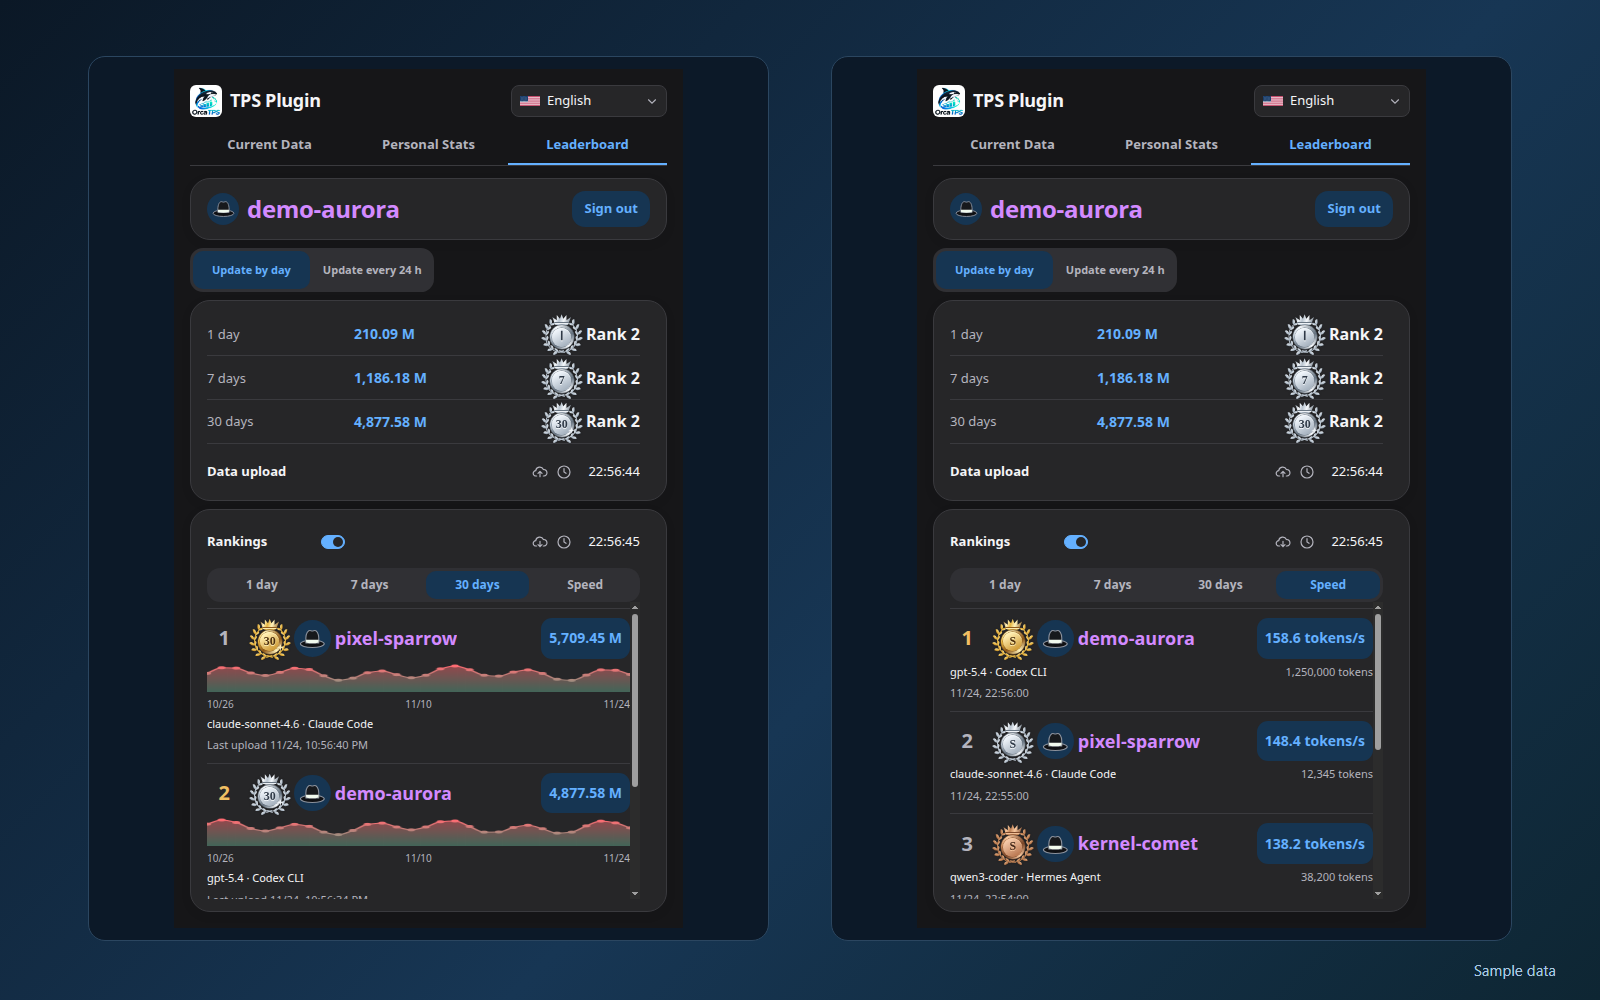
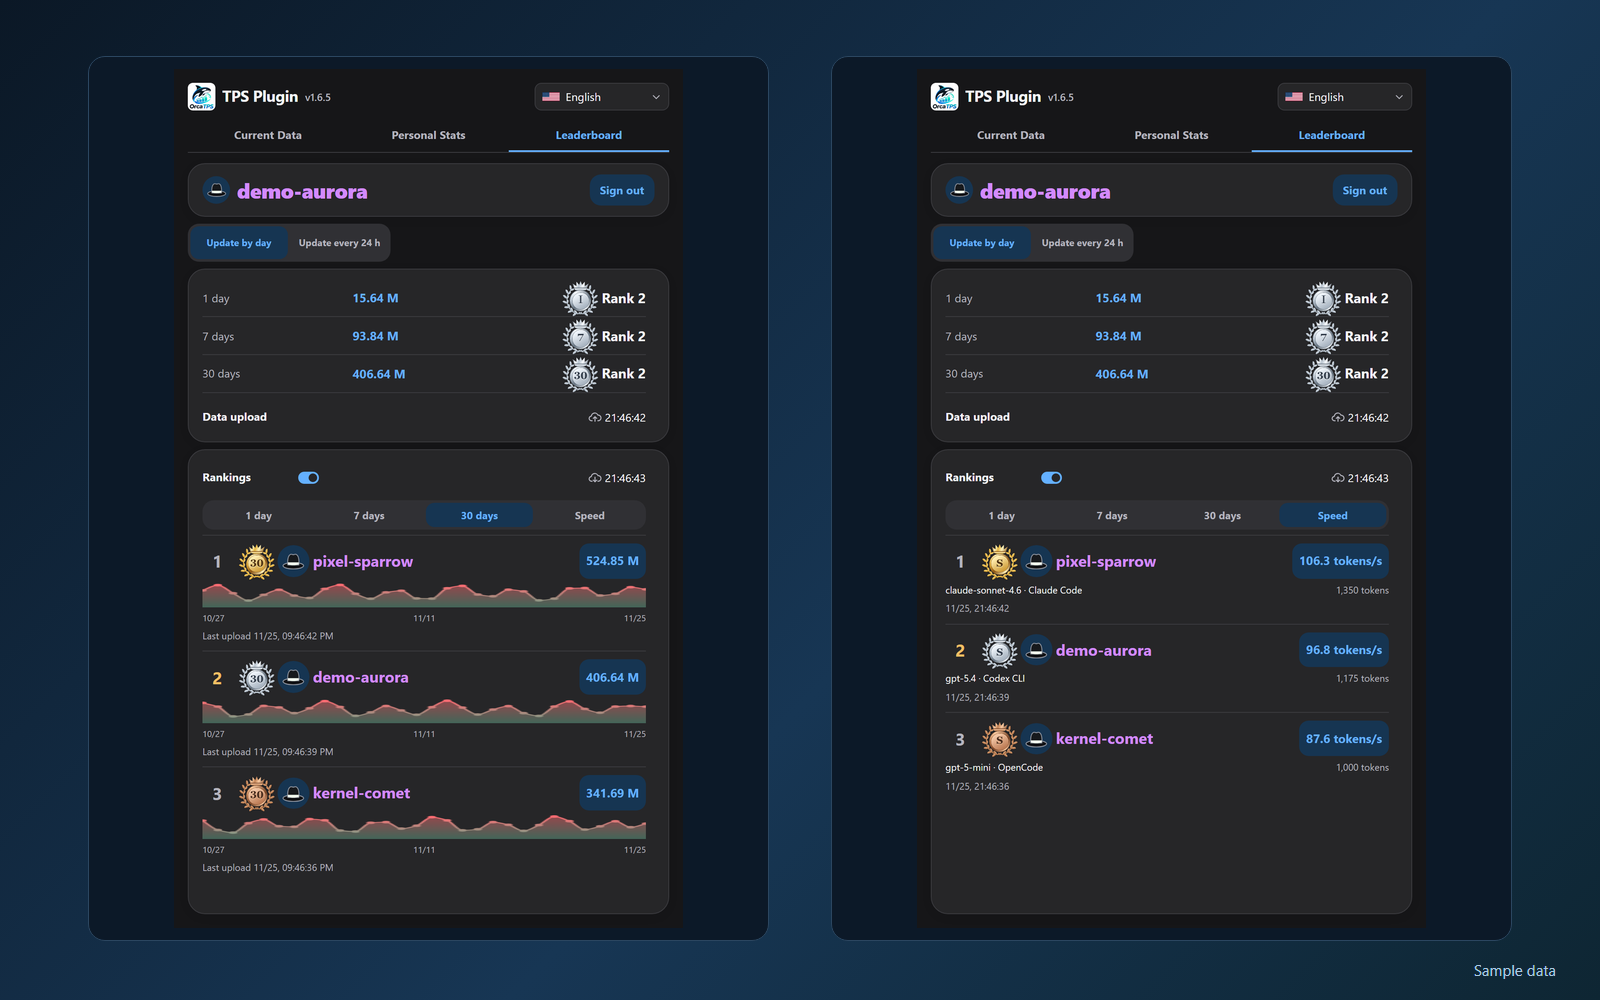
Prepare TPS Plugin 1.6.5 release

diff --git a/CHANGELOG.md b/CHANGELOG.md
@@ -4,20 +4,26 @@ All notable changes to this project will be documented in this file.
 
 ## [Unreleased]
 
-### Fixed
-- **Leaderboard sync no longer waits for every file**: Today's usage now uploads whatever has been read so far, and later syncs replace it as more files are read. Heavy users with a large session file that was still being written (over 64 MB) previously got "usage not ready" on almost every sync. The one-time history upload for past days still waits for complete data, because the server keeps the first total it receives for each past day.
-- **Leaderboard avatars recover after a failed download**: An avatar that is still the default icon is fetched again when its leaderboard row changes after a sync, and the account avatar is retried too. A loaded avatar updates every place the same user appears and is not downloaded again. Failed downloads now wait 10 seconds (one sync interval) instead of 5 minutes.
-- **Orca 1.4.255+ Active Conversation Tracking**: Adapted to Orca's split state storage (`profile_state_document_parts` and `profile_state_document_parts_meta`), resolving an issue where the sidebar and status bar stayed frozen on an older session after switching channels/tabs. Falls back seamlessly to monolithic `profile_state_documents` on earlier Orca versions.
+## [1.6.5] - 2026-11-25
 
-### Changed
-- The default leaderboard avatar is a black hat with a white band and a thin gray outline.
-- **Sub-Second Active Tab Polling (250ms)**: Lowered focus poll interval from 1000ms to 250ms with a lightweight revision stamp check (`workspaceStamp`), avoiding full-tree re-parsing when the workspace state is unchanged, reducing channel switch latency to 0.7~1.5s.
+**Upgrading from 1.6.4:** Uninstall the old TPS Plugin in Orca, then install 1.6.5. This release changes how the plugin collects usage and connects to the leaderboard.
 
 ### Added
-- **Antigravity CLI support** (`antigravity` agent): token counts and cache hit rate come from the live `brain/<conversation-id>/.system_generated/logs/transcript.jsonl` (rotated copies are ignored). `input_tokens` is treated as excluding cache reads.
-- Antigravity model, TTFT, and request latency come from its native store `conversations/<conversation-id>.db`, read-only and limited to step and generation metadata. Model priority: generation display name, then the latest `Model Selection` change, then the family name. Without the native store only tokens and cache are shown.
-- **Usage totals panel and yearly heatmap**: 当日战况, 近一周战况 and 近一月战况 at the top of the panel, showing total tokens (new input, output, cache writes and cache reads, matching CC Switch's real total), cache hit rate and request counts, with a per-agent and per-model breakdown. A GitHub-style heatmap of the last year shows daily totals on hover. Totals come from an incremental background index of local session files (Codex, Claude Code including subagents, Pi, OpenCode sessions, and Antigravity conversations). Each file is read once and re-read only when it changes (large, still-growing files at most every 10 minutes); Codex rollouts stream through the incremental parser; identical Codex rollouts copied into Orca's managed home are counted once.
-- **Model average speed ranking** (模型均速): inside the 用量统计 group, models are ranked by their mean per-request output speed (tokens/s) over the selected 当日 / 近一周 / 近一月 window, fastest first. Agents are merged per model; a model needs at least 5 requests in the window to be ranked, and models whose samples are mostly log estimates are marked `≈`. Speeds come from the same local session logs as the totals, so CC Switch proxy speeds are not included. Index units written by earlier versions are re-read once to fill in the speed counters.
+
+- Track token usage and generation speed across 16 harnesses. The plugin offers 15 interface languages and remembers the last selection.
+- Review daily, hourly, and annual usage in Personal Stats. Compare models by token usage and average generation speed, and explore the yearly heatmap.
+- Browse separate usage and speed leaderboards in calendar and completed-hour modes. The daily usage board shows a live usage chart, and longer periods show daily trends.
+
+### Changed
+
+- Tokens Managers collect usage on each device and sync it over SSH. Personal Stats and leaderboard uploads use the same device totals and count each device once.
+- The leaderboard runs on the new server. Rankings, usage totals, and speed samples stay in memory, while GitHub account and sign-in state is stored separately.
+- Simplified the leaderboard controls and sign-in notices. The sidebar now shows the plugin version, and both READMEs and Orca gallery images have been refreshed.
+
+### Fixed
+
+- Keep daily uploads moving when a conversation log is still being written, and retry leaderboard avatars after a failed load.
+- Keep the sidebar and status bar in sync with active conversation changes in Orca 1.4.255 and later.
 
 ## [1.6.4] - 2026-11-19
 
